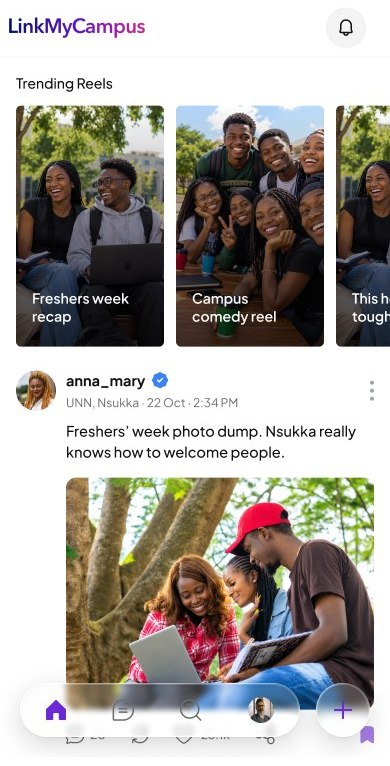
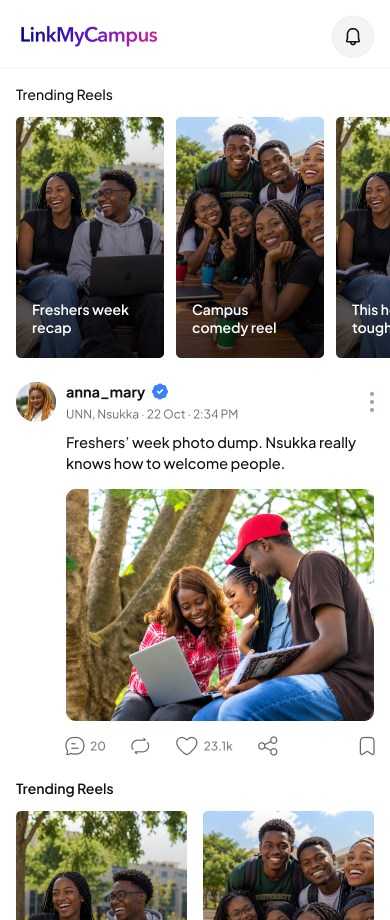
Taller feed screen so the full post shows in the app frame

diff --git a/src/components/home/Showcase.tsx b/src/components/home/Showcase.tsx
@@ -8,7 +8,7 @@ import { images } from '../../assets/images';
   their own; hover or tap one to show it.
 */
 const FEATURES = [
-  { title: 'Campus feed', body: 'Trending reels, posts and gist from your school.', src: images.appFeed, ratio: 1.964, icon: Newspaper, side: 'left' },
+  { title: 'Campus feed', body: 'Trending reels, posts and gist from your school.', src: images.appFeed, ratio: 2.359, icon: Newspaper, side: 'left' },
   { title: 'Chat', body: 'Message coursemates, with delivered and seen receipts.', src: images.appChat, ratio: 1.958, icon: MessageCircle, side: 'left' },
   { title: 'Create a post', body: 'Photos, tags, sounds, and who can see it.', src: images.appCreatePost, ratio: 2.103, icon: PenSquare, side: 'left' },
   { title: 'Pages', body: 'Communities for your department, hostel or club.', src: images.appPage, ratio: 2.474, icon: Users, side: 'right' },
